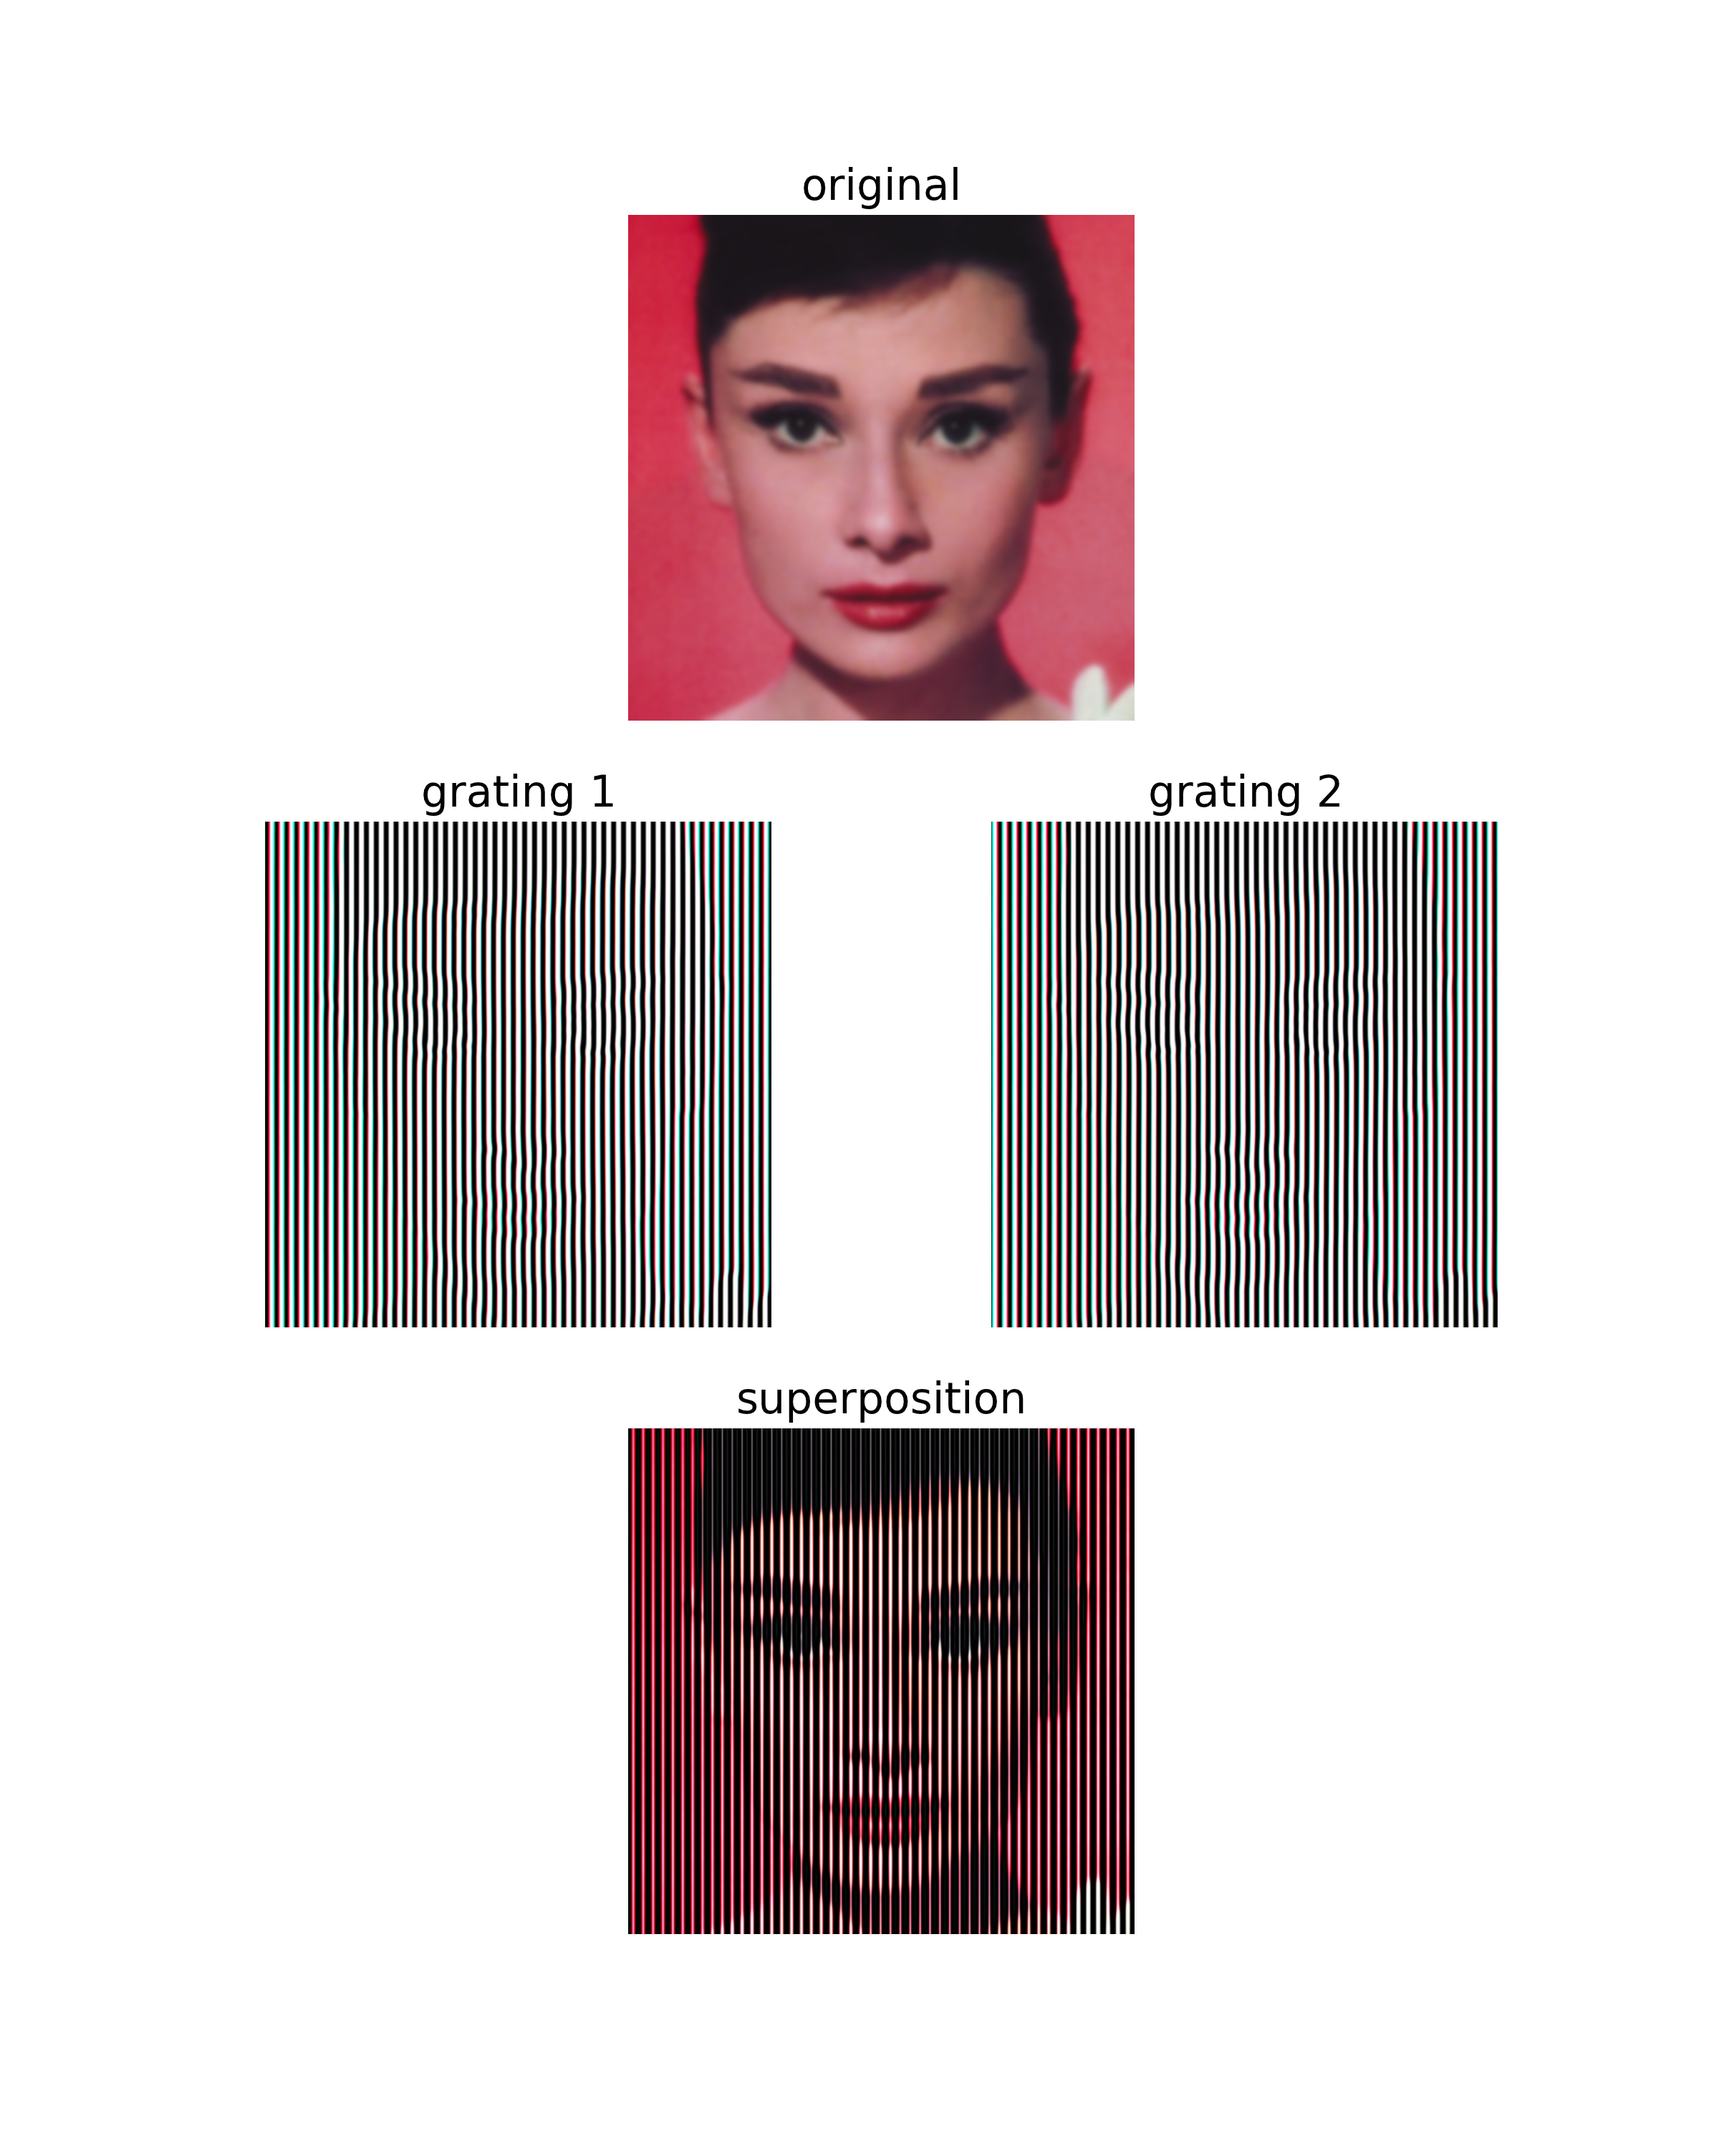
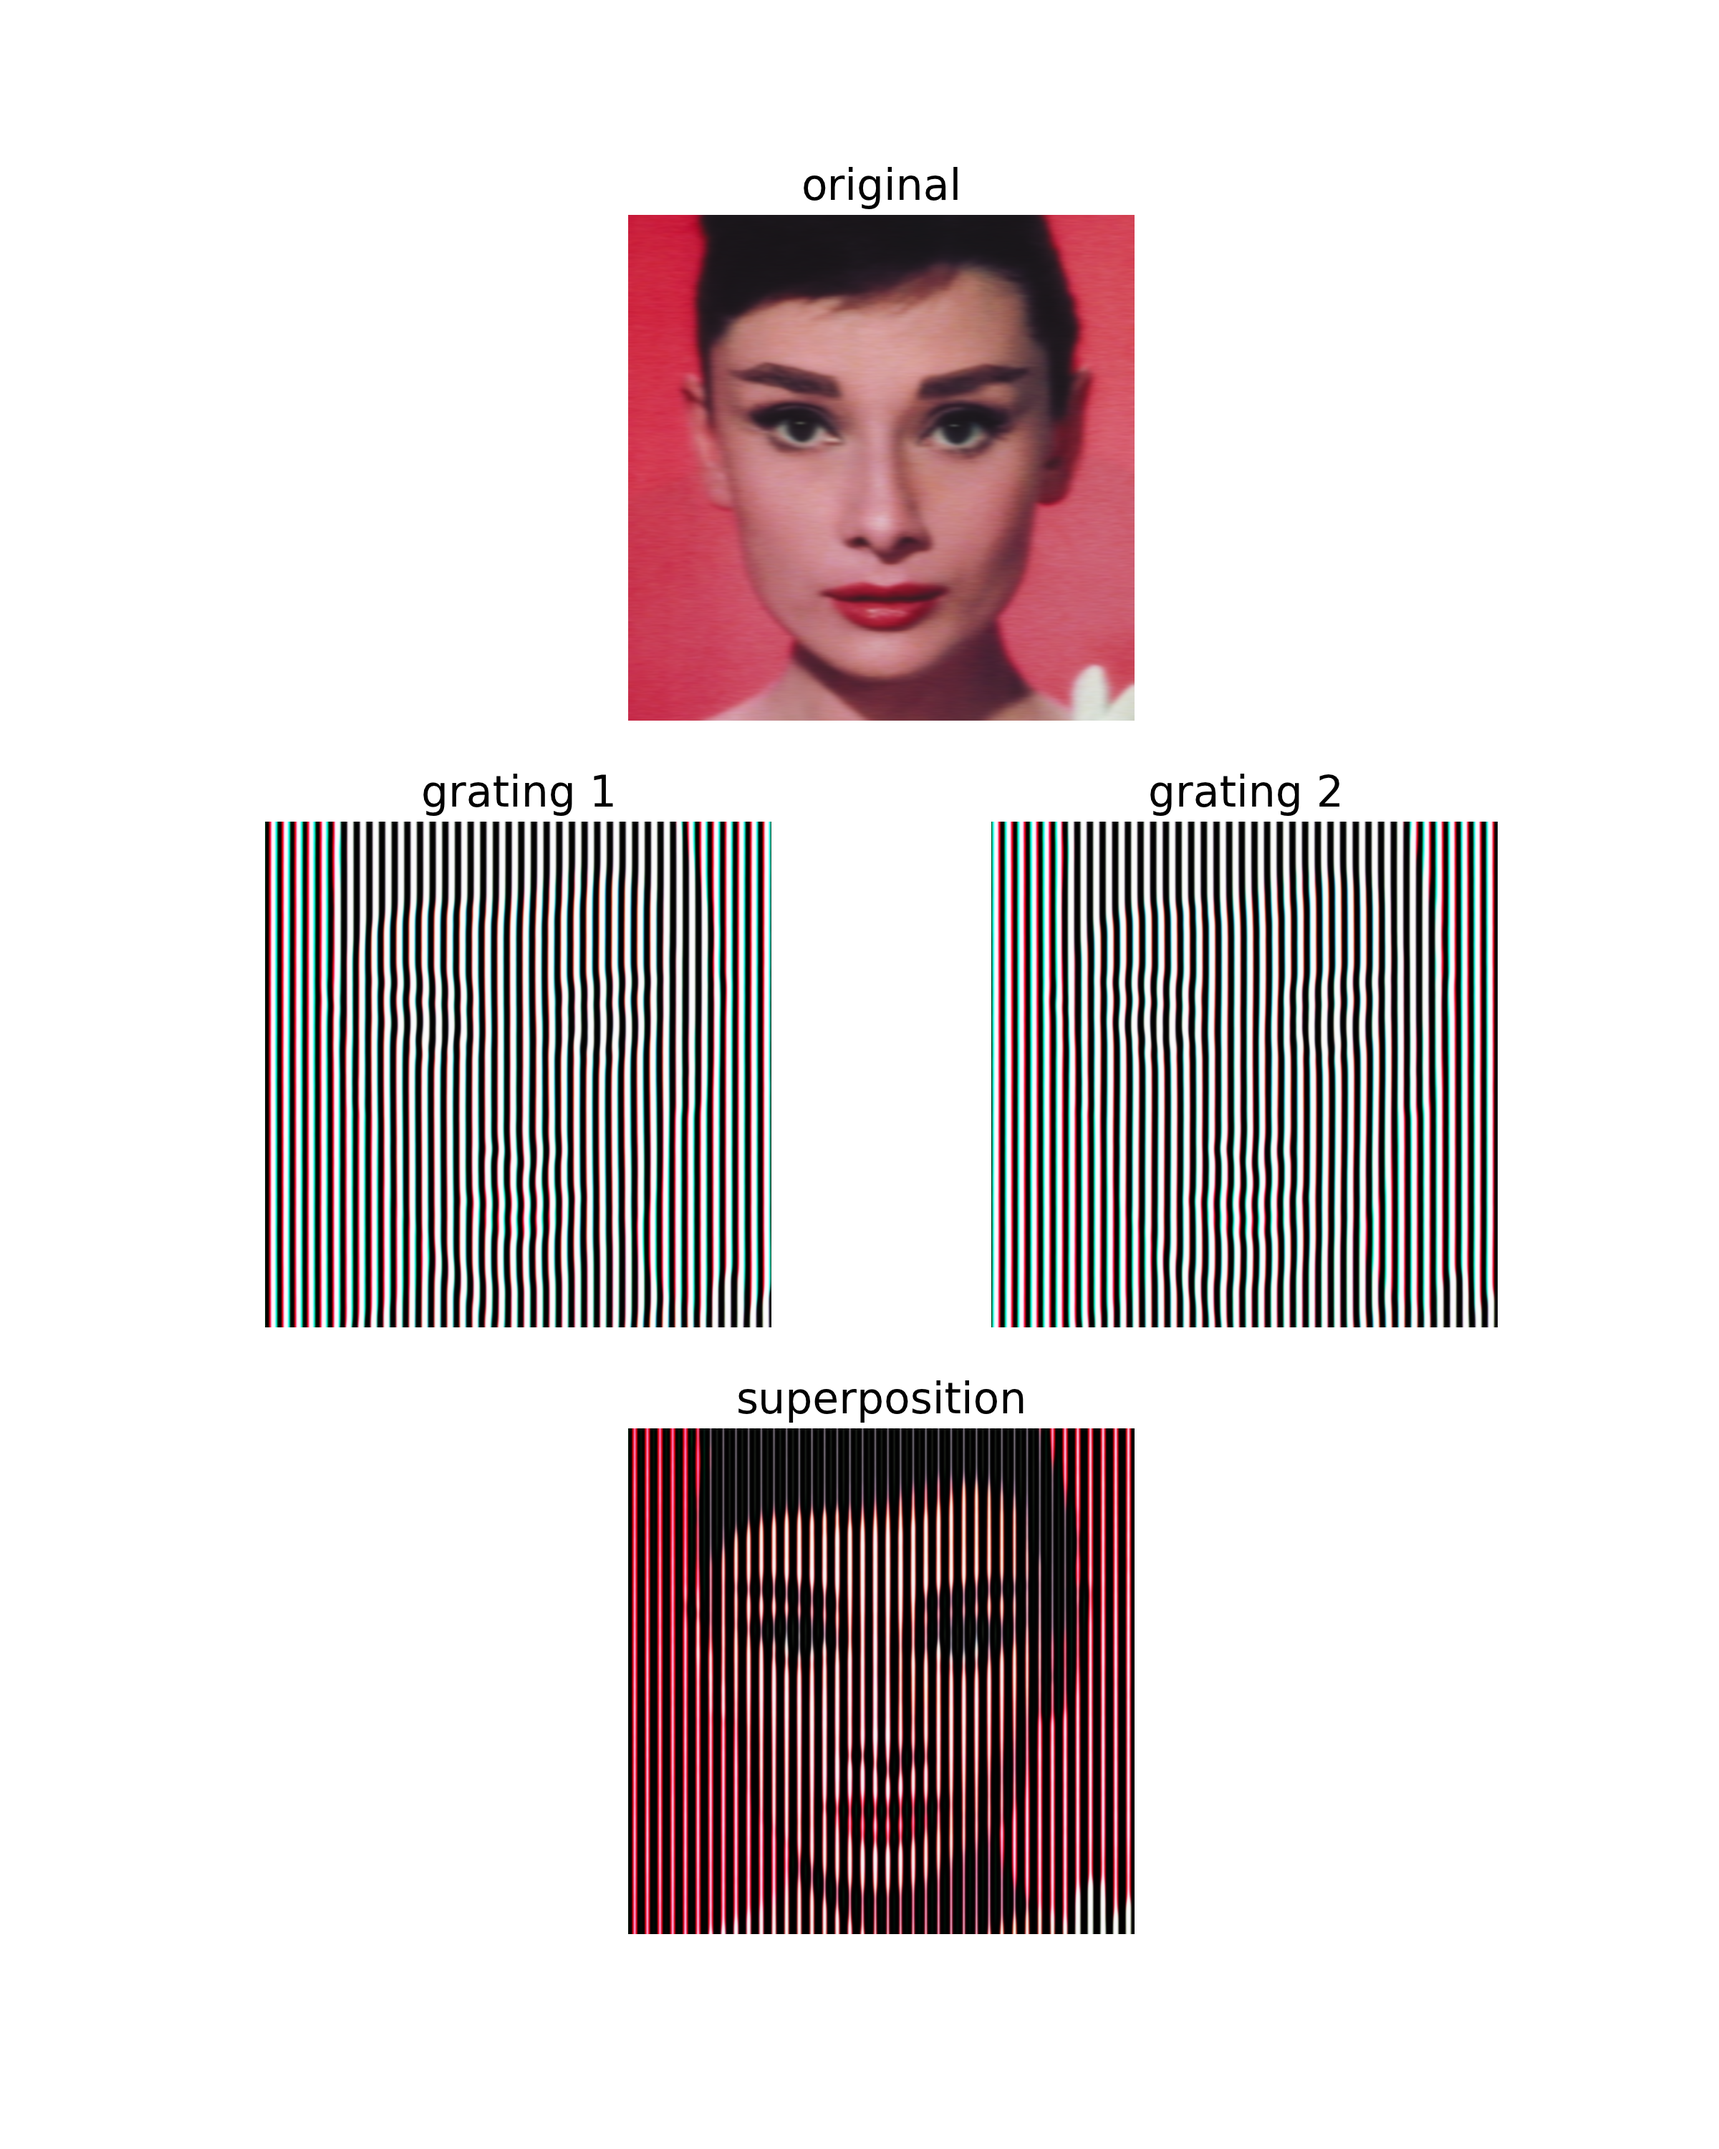
minor cleanup

Changed region(s): [[0.5625, 0.372, 0.875, 0.62], [0.3438, 0.651, 0.6562, 0.899], [0.1562, 0.372, 0.4688, 0.62]]

diff --git a/moire1.py b/moire1.py
@@ -3,18 +3,15 @@ import matplotlib.pyplot as mp
 import scipy.ndimage.filters as ndfilt
 import scipy.ndimage.interpolation as ndint
 
-
-fig = mp.figure(figsize=(8,10))
-T = 20     # grating period in pixels
-mag = 2    # magnification factor
-
+T = 1./40        # grating period as fraction of image width
+mag = 2          # image upsamping factor
+hsigma = T/4.   # sigma for gaussian smoothing along horizontal dimension
 
 def grating(phaseImage):
-    """ 
+    """
     Convert phaseImage into grating image scaled between 0 and 1
     """
     return 1/(1+np.exp(5*np.cos(2*np.pi*phaseImage)))
-
 
 def show(sub, img, title):
     """
@@ -25,22 +22,38 @@ def show(sub, img, title):
     mp.axis('off')
     mp.title(title)
 
-
 # load image and magnify
+print 'pre-processing images...'
 img = mp.imread('./images/audrey512.png')
-img = ndint.zoom(img,(mag,mag,1))
-img = ndfilt.gaussian_filter(img, (T/4,T/4,0))
+img = ndint.zoom(img, (mag, mag, 1))
+T = T*img.shape[1]   # convert to pixels
+img = ndfilt.gaussian_filter1d(img, sigma=hsigma*img.shape[1], axis=1)
+
+fig = mp.figure(figsize=(8,10))
 show(311, img, 'original')
-height,width,depth = img.shape
 
 # generate gratings
-carrier = fromfunction(lambda y,x,d: x/T, img.shape) 
-grating1 = grating(carrier-(1-img)/4)
-grating2 = grating(carrier+(1-img)/4)
+print 'generating gratings...'
+carrier = np.fromfunction(lambda y,x,d: x/T, img.shape) 
+g1 = carrier-(1-img)/4
+g2 = carrier+(1-img)/4
+
+# enforce grating smoothness by clipping the laplacian
+print 'smoothing...'
+maxCurvature = 1e-3/T
+for i in range(100):
+    avg = (g1[2:,:,:]+g1[:-2,:,:])/2
+    g1[1:-1,:,:] = g1[1:-1,:,:].clip(avg-maxCurvature, avg+maxCurvature)
+    avg = (g2[2:,:,:]+g2[:-2,:,:])/2
+    g2[1:-1,:,:] = g2[1:-1,:,:].clip(avg-maxCurvature, avg+maxCurvature)
+
+g1 = grating(g1)
+g2 = grating(g2)
 
 # visualize gratings and their superposition
-show(323, grating1, 'grating 1')
-show(324, grating2, 'grating 2')
-show(313, grating1*grating2, 'superposition')
+print 'saving images...'
+show(323, g1, 'grating 1')
+show(324, g2, 'grating 2')
+show(313, g1*g2, 'superposition')
 
 fig.savefig('./results/moire1.png', dpi=300)

diff --git a/moire2.py b/moire2.py
@@ -3,11 +3,10 @@ import matplotlib.pyplot as mp
 import scipy.ndimage.filters as ndfilt
 import scipy.ndimage.interpolation as ndint
 
-
 T = 1./40        # grating period as fraction of image width
 mag = 2          # image upsamping factor
 offset = 1./8    # superposition offset
-hsigma = T/4     # sigma for gaussian smoothing along horizontal dimension
+hsigma = T/4.     # sigma for gaussian smoothing along horizontal dimension
 
 def grating(phaseImage):
     """ 
@@ -45,9 +44,8 @@ T = round(T*width)
 offset = round(offset*height)
 
 # carrier phase image: horizontal gradient with slope 1/T
-carrier = np.tile(np.r_[0.0:width].reshape(1,width,1), (height+offset,1,3))/T
-g1 = carrier
-g2 = carrier.copy()
+g1 = np.fromfunction(lambda y,x,d: x/T, (height+offset, width, depth))
+g2 = g1.copy()
 
 # iterative adjustment of gratings to images
 L = 0.04       # learning rate

diff --git a/moire3.py b/moire3.py
@@ -42,7 +42,7 @@ T = round(T*width)
 offset = round(offset*height)
 
 # carrier phase image: horizontal gradient with slope 1/T
-g = fromfunction(lambda y,x,d: x/T, (height+offset,width,3))
+g = np.fromfunction(lambda y,x,d: x/T, (height+offset,width,3))
 
 # iterative adjustment of gratings to images
 L = 0.04    # learning rate
